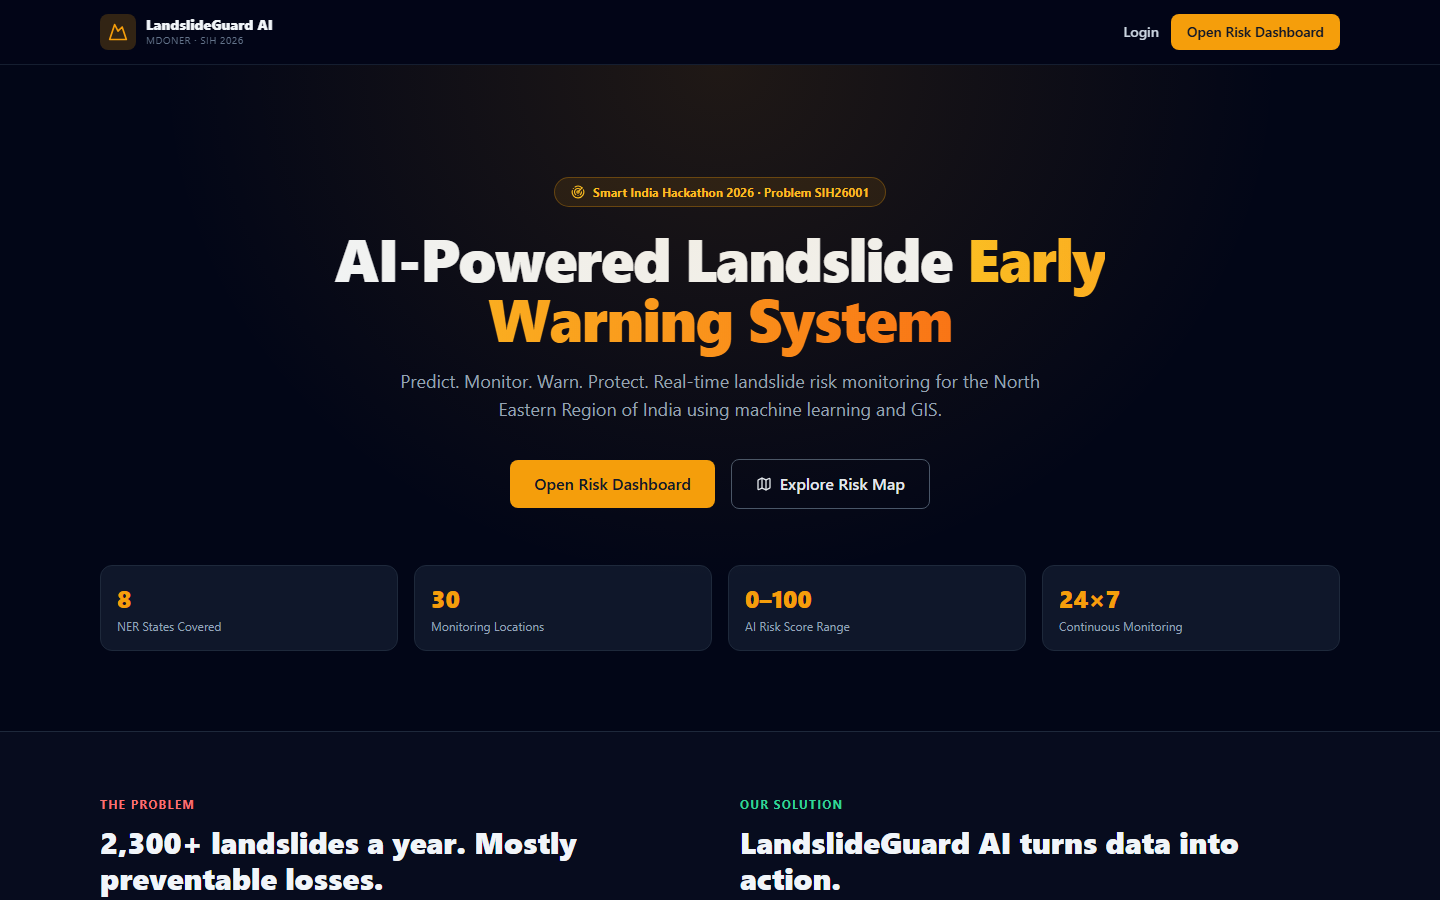
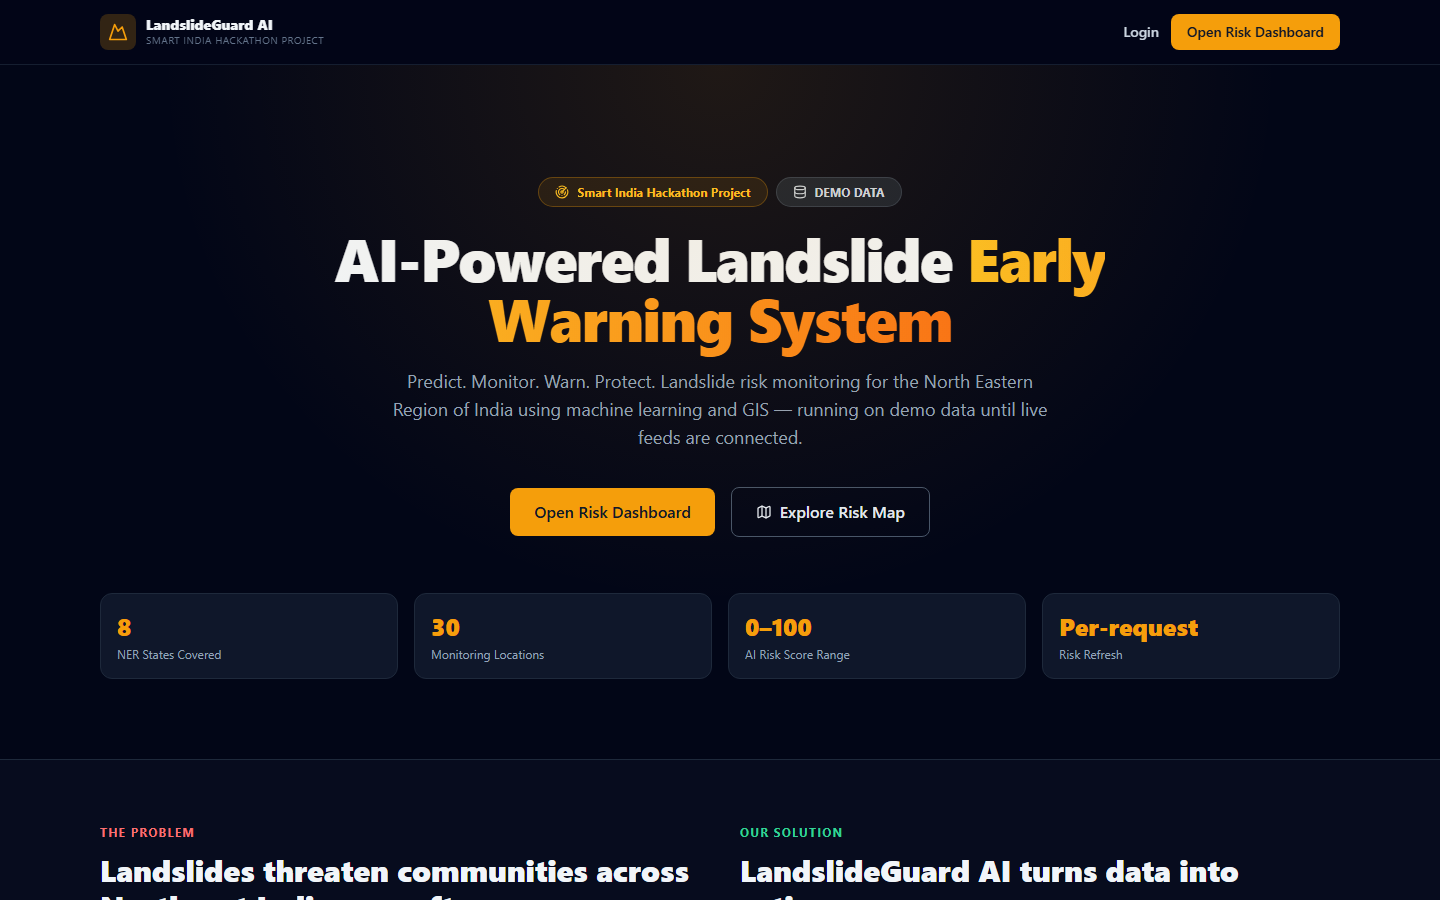
fix: qualify demo claims and add login regression coverage

diff --git a/frontend/src/test/login.test.jsx b/frontend/src/test/login.test.jsx
@@ -1,0 +1,114 @@
+import React from 'react'
+import { describe, it, expect, vi, beforeEach, afterEach } from 'vitest'
+import { render, screen, fireEvent, waitFor } from '@testing-library/react'
+import { MemoryRouter, Routes, Route } from 'react-router-dom'
+
+// The page must never touch a real backend; mock the API module the same way
+// the other page tests do.
+vi.mock('../services/api', () => ({
+  default: { get: vi.fn(), post: vi.fn() },
+  setToken: vi.fn(),
+}))
+
+import api, { setToken } from '../services/api'
+import Login from '../pages/Login'
+
+function renderLogin() {
+  return render(
+    <MemoryRouter>
+      <Login />
+    </MemoryRouter>,
+  )
+}
+
+describe('Login (demo hygiene)', () => {
+  beforeEach(() => {
+    api.post.mockReset()
+    setToken.mockReset()
+  })
+
+  afterEach(() => {
+    vi.unstubAllEnvs()
+  })
+
+  it('starts with an empty password field (no prefilled demo password)', () => {
+    const { container } = renderLogin()
+    const password = container.querySelector('input[type="password"]')
+    expect(password).not.toBeNull()
+    expect(password.value).toBe('')
+  })
+
+  it('shows the demo-credential hint in development mode', () => {
+    renderLogin()
+    expect(screen.getByText(/Demo: admin@landslideguard\.ai/i)).toBeInTheDocument()
+  })
+
+  it('hides the demo-credential hint when development mode is false', () => {
+    vi.stubEnv('DEV', false)
+    renderLogin()
+    expect(screen.queryByText(/Demo: admin@landslideguard\.ai/i)).toBeNull()
+  })
+
+  it('submits the user-entered email and password through the existing request path', async () => {
+    api.post.mockResolvedValue({
+      data: { access_token: 'jwt-token', user: { name: 'Demo', role: 'viewer' } },
+    })
+    const { container } = renderLogin()
+
+    fireEvent.change(container.querySelector('input[type="email"]'), {
+      target: { value: 'viewer@example.com' },
+    })
+    fireEvent.change(container.querySelector('input[type="password"]'), {
+      target: { value: 'my-secret-pw' },
+    })
+    fireEvent.click(screen.getByRole('button', { name: /sign in/i }))
+
+    await waitFor(() =>
+      expect(api.post).toHaveBeenCalledWith('/api/auth/login', {
+        email: 'viewer@example.com',
+        password: 'my-secret-pw',
+      }),
+    )
+    expect(setToken).toHaveBeenCalledWith('jwt-token')
+  })
+
+  it('keeps the router login heading intact', () => {
+    renderLogin()
+    expect(screen.getByText('Sign in to the monitoring platform')).toBeInTheDocument()
+  })
+
+  it('navigates to /dashboard and establishes the session on a successful login', async () => {
+    api.post.mockResolvedValue({
+      data: { access_token: 'jwt-token', user: { name: 'Demo', role: 'viewer' } },
+    })
+    const { container } = render(
+      <MemoryRouter initialEntries={['/login']}>
+        <Routes>
+          <Route path="/login" element={<Login />} />
+          <Route path="/dashboard" element={<div>Dashboard route</div>} />
+        </Routes>
+      </MemoryRouter>,
+    )
+
+    fireEvent.change(container.querySelector('input[type="email"]'), {
+      target: { value: 'viewer@example.com' },
+    })
+    fireEvent.change(container.querySelector('input[type="password"]'), {
+      target: { value: 'my-secret-pw' },
+    })
+    fireEvent.click(screen.getByRole('button', { name: /sign in/i }))
+
+    // Actual resulting location: the /dashboard route renders after navigate().
+    expect(await screen.findByText('Dashboard route')).toBeInTheDocument()
+    expect(setToken).toHaveBeenCalledWith('jwt-token')
+
+    // setSession(token, user) is not mocked; assert its observable effects.
+    // Login calls setSession(res.data.access_token, res.data.user) -> writes
+    // lg_token / lg_user into storage (see useAuth.js).
+    expect(localStorage.getItem('lg_token')).toBe('jwt-token')
+    expect(JSON.parse(localStorage.getItem('lg_user'))).toEqual({
+      name: 'Demo',
+      role: 'viewer',
+    })
+  })
+})

diff --git a/frontend/src/pages/Landing.jsx b/frontend/src/pages/Landing.jsx
@@ -37,7 +37,7 @@ const HOW_IT_WORKS = [
   {
     icon: MapIcon,
     title: '4. GIS Visualization',
-    desc: 'Every location is rendered on an interactive map of Northeast India with live risk markers and environmental conditions.',
+    desc: 'Every location is rendered on an interactive map of Northeast India with risk markers and environmental conditions.',
   },
 ]
 
@@ -115,8 +115,13 @@ export default function Landing() {
       <section className="relative overflow-hidden">
         <div className="pointer-events-none absolute inset-0 bg-[radial-gradient(ellipse_at_top,rgba(245,158,11,0.12),transparent_55%)]" />
         <div className="mx-auto max-w-7xl px-5 pb-20 pt-20 text-center lg:pt-28">
-          <div className="mx-auto mb-5 inline-flex items-center gap-2 rounded-full border border-amber-500/30 bg-amber-500/10 px-4 py-1.5 text-xs font-bold text-amber-400">
-            <Radar className="h-3.5 w-3.5" /> Smart India Hackathon Project
+          <div className="mb-5 flex flex-wrap items-center justify-center gap-2">
+            <div className="inline-flex items-center gap-2 rounded-full border border-amber-500/30 bg-amber-500/10 px-4 py-1.5 text-xs font-bold text-amber-400">
+              <Radar className="h-3.5 w-3.5" /> Smart India Hackathon Project
+            </div>
+            <div className="inline-flex items-center gap-2 rounded-full border border-slate-600/50 bg-slate-800/70 px-4 py-1.5 text-xs font-bold text-slate-300">
+              <Database className="h-3.5 w-3.5" /> DEMO DATA
+            </div>
           </div>
           <h1 className="mx-auto max-w-4xl text-4xl font-black leading-tight tracking-tight sm:text-5xl lg:text-6xl">
             AI-Powered Landslide{' '}
@@ -125,8 +130,9 @@ export default function Landing() {
             </span>
           </h1>
           <p className="mx-auto mt-5 max-w-2xl text-lg text-slate-400">
-            Predict. Monitor. Warn. Protect. Real-time landslide risk monitoring for the North
-            Eastern Region of India using machine learning and GIS.
+            Predict. Monitor. Warn. Protect. Landslide risk monitoring for the North Eastern
+            Region of India using machine learning and GIS — running on demo data until live feeds
+            are connected.
           </p>
           <div className="mt-9 flex flex-col items-center justify-center gap-4 sm:flex-row">
             <Link to="/dashboard" className="btn-primary !px-6 !py-3 text-base">
@@ -141,7 +147,7 @@ export default function Landing() {
               ['8', 'NER States Covered'],
               ['30', 'Monitoring Locations'],
               ['0–100', 'AI Risk Score Range'],
-              ['24×7', 'Continuous Monitoring'],
+              ['Per-request', 'Risk Refresh'],
             ].map(([v, l]) => (
               <div key={l} className="rounded-xl border border-slate-800 bg-surface p-4">
                 <p className="text-2xl font-extrabold text-brand">{v}</p>
@@ -178,8 +184,8 @@ export default function Landing() {
             </h2>
             <p className="mt-4 text-slate-400">
               An end-to-end AI platform that ingests environmental data, predicts landslide risk with
-              explainable machine learning, plots risk live on a GIS map of the NER, and issues
-              graded early warnings automatically.
+              explainable machine learning, plots risk on a GIS map of the NER, and issues
+              graded early warnings when risk levels escalate.
             </p>
             <ul className="mt-5 space-y-2 text-sm text-slate-300">
               <li>• Real ML model — not a mock-up — with honest accuracy reporting</li>

diff --git a/frontend/src/pages/Login.jsx b/frontend/src/pages/Login.jsx
@@ -9,12 +9,15 @@ const DEMO_CREDENTIALS = { email: 'admin@landslideguard.ai', password: 'admin123
 
 export default function Login() {
   const [email, setEmail] = useState(DEMO_CREDENTIALS.email)
-  const [password, setPassword] = useState(DEMO_CREDENTIALS.password)
+  const [password, setPassword] = useState('')
   const [error, setError] = useState(null)
   const [busy, setBusy] = useState(false)
   const { setSession } = useAuth()
   const { isOnline } = useOnlineStatus()
   const navigate = useNavigate()
+  // The demo-credential hint is a local convenience only; it is never rendered
+  // in a production build (Vite inlines `DEV` at build time).
+  const showDemoHint = import.meta.env.DEV
 
   const submit = async (e) => {
     e.preventDefault()
@@ -63,9 +66,11 @@ export default function Login() {
               You are offline — sign-in needs a backend connection.
             </p>
           )}
-          <p className="text-center text-[11px] text-slate-500">
-            Demo: admin@landslideguard.ai / admin123
-          </p>
+          {showDemoHint && (
+            <p className="text-center text-[11px] text-slate-500">
+              Demo: admin@landslideguard.ai / admin123
+            </p>
+          )}
         </form>
 
         <p className="mt-6 text-center text-sm">

diff --git a/docs/screenshots/visual-review-log.md b/docs/screenshots/visual-review-log.md
@@ -1,0 +1,42 @@
+# Screenshot Visual Review Log
+
+Manual visual-review tracker for the UI captures in this directory.
+
+**Status: 11 reviewed, 0 `NOT REVIEWED`.** A committed PNG existing in this
+directory is **not** evidence that its contents were inspected — a row counts as
+reviewed only once a human records observations below. Any row still marked
+`NOT REVIEWED` must be treated as unreviewed, and no claim may be made about its
+contents (including the absence of credentials or other sensitive data).
+
+Review checklist per image:
+- no credentials, tokens, or plaintext demo hints visible (see `login.png`);
+- no clipping, blank regions, or unreadable text;
+- DEMO/LIVE (and source) labelling consistent with `docs/demo.md`;
+- charts/maps populated rather than empty; placeholder-only screens are as intended.
+
+Record `PASS`, `WARN`, or `FAIL` with concrete observations. Do not edit the PNGs.
+
+### Current File SHA-256 hashes
+
+The `Current File SHA-256` column records the hash of each file **as it exists at
+the time of this inventory**. For screenshots that had no recorded hash when they
+were originally reviewed, adding a hash now does **not** retroactively prove that
+the exact same bytes were present during that earlier human review — it only
+fixes the current bytes for future comparison. A future hash mismatch means the
+screenshot has changed and the row must be re-reviewed before its visual-review
+entry is relied upon. Recording hashes does not by itself verify overall
+screenshot visual QA.
+
+| File | Intended page | Review status | Reviewer | Date | Current File SHA-256 | Notes |
+| ---- | ------------- | ------------- | -------- | ---- | -------------------- | ----- |
[11 lines of base64/hex data omitted]

diff --git a/README.md b/README.md
@@ -451,10 +451,19 @@ route walkthrough):
 | Admin | `/admin` | [`docs/screenshots/admin.png`](docs/screenshots/admin.png) |
 | Settings | `/settings` | [`docs/screenshots/settings.png`](docs/screenshots/settings.png) |
 
-The `login.png` capture shows the login form with the password field cleared and
-the plaintext demo-credential hint hidden — the demo credentials are **not**
-visible in that image. Make sure these files are committed before relying on any
-submission-generated link. The suggested page set and exact routes originate in
+The `login.png` capture shows the login form with the password field cleared
+and the plaintext demo-credential hint hidden (the demo email remains prefilled).
+It was re-captured on 2026-10-15 from a **production build preview** and verified
+programmatically; it is byte-identical to the previously reviewed image, so the
+recorded human review still applies and no separate human inspection of the
+re-capture was performed. The linked
+[`docs/screenshots/visual-review-log.md`](docs/screenshots/visual-review-log.md)
+currently records 11 screenshots as `REVIEWED` and 0 as `NOT REVIEWED`; these are
+human-recorded review statuses and do not independently establish visual QA
+verification. Overall screenshot visual QA remains `NOT VERIFIED`, and any row
+still marked `NOT REVIEWED` must be treated as unreviewed. Make sure these files
+are committed before relying on any submission-generated link. The suggested
+page set and exact routes originate in
 **[docs/demo.md → Screenshot checklist](docs/demo.md#5-screenshot-checklist)**.
 
 ## Deployment

diff --git a/docs/demo.md b/docs/demo.md
@@ -104,9 +104,12 @@ password: admin123
 ```
 
 Seeded on an empty database by the startup seed, bcrypt-hashed, JWT-authenticated.
-These defaults are published in the repo and prefilled on the login form purely
-for local/judge demos; they **must** be overridden before any non-local
-deployment (see [README → Demo Credentials](../README.md#demo-credentials)).
+These defaults are published in the repo for local/judge demos. On the login
+form the email is prefilled, the password is left empty, and the plaintext
+demo-credential hint is rendered **only in Vite development mode**
+(`import.meta.env.DEV`) — it is absent from production builds. They **must** be
+overridden before any non-local deployment (see
+[README → Demo Credentials](../README.md#demo-credentials)).
 
 ## 4. Route-by-route walkthrough
 
@@ -122,7 +125,9 @@ stack, and CTAs. Buttons link into the app (which then requires sign-in).
 > problem number/title/ministry and any external statistics independently.
 
 ### `/login` — Login
-Prefilled demo credentials, a sign-in button, and an offline notice. Login is
+Email prefilled, password left empty, a sign-in button, and an offline notice.
+The demo-credential hint below the form is shown only in Vite development mode
+(`import.meta.env.DEV`) and is not present in production builds. Login is
 disabled while the browser is offline (sign-in needs the backend).
 
 ### `/dashboard` — Disaster Monitoring Dashboard
